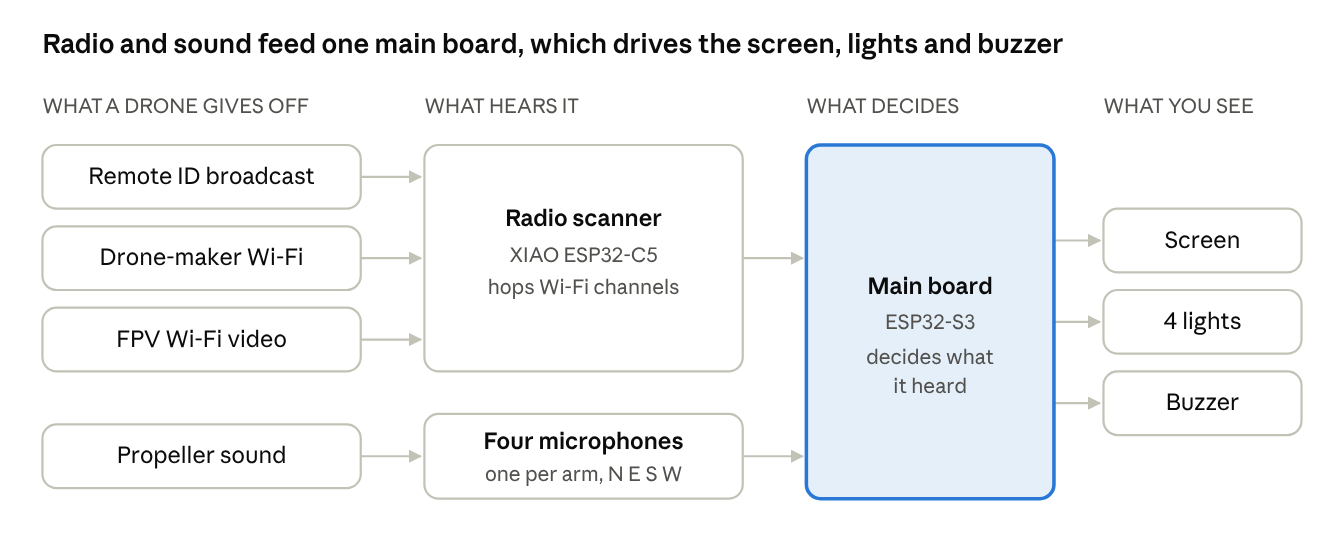
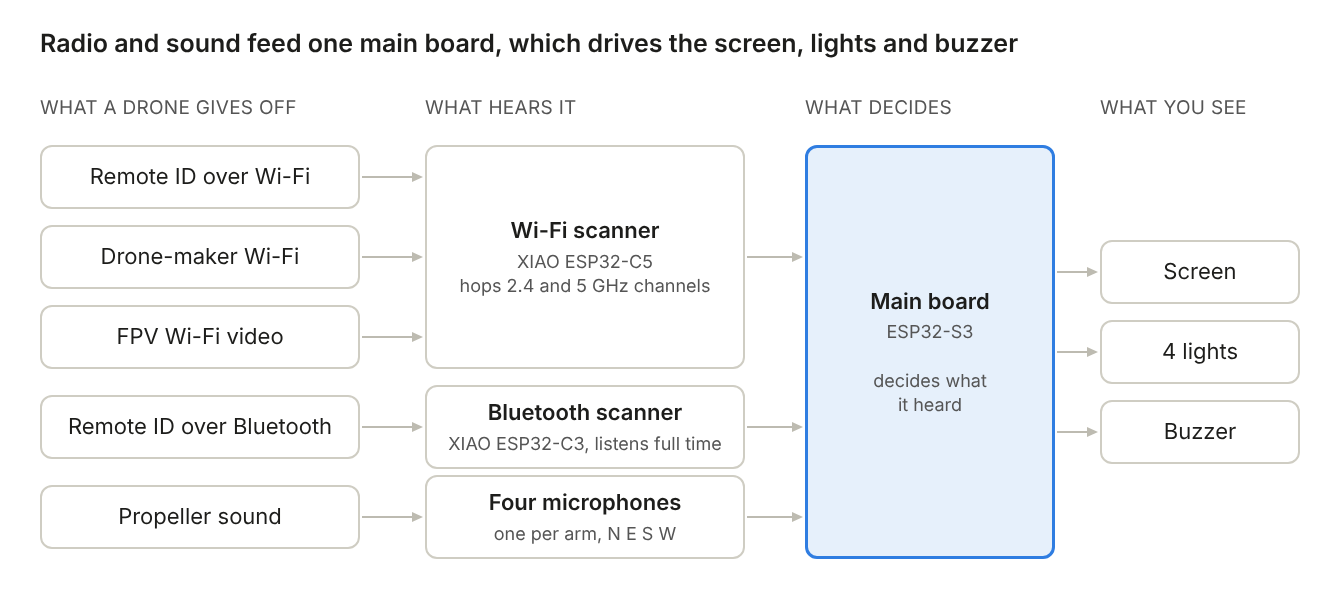
Update demo docs for S3 v28, C5 v4 and the Bluetooth board
- README: new "what it does today" graphic, a "where the project is now"
  section (working features, what the browser sim runs, what's next),
  and a short "help fund it" section.
- GUIDE: Bluetooth Remote ID via the XIAO ESP32-C3 board, drone Wi-Fi
  network-name hints, BT badge and SYS line, RF hint list, new
  troubleshooting row; redrawn how-it-works diagram with three boards.
- index.html: intro note that the sim runs the Nov 4 firmware and what
  the real unit has gained since.

Claude-Session: https://claude.ai/code/session_01J2jUx3sYurfb5398Jg7xUa

diff --git a/index.html b/index.html
@@ -140,6 +140,7 @@ input[type=range] { width: 100%; accent-color: var(--accent); }
       <li>Click a drone on the map to select it, then click anywhere to send it there, or use <b>fly at me</b> and <b>fly away</b>.</li>
       <li>Click the unit's screen, then use <kbd>Space</kbd> to change screens and the arrow keys to pick a contact. <kbd>Enter</kbd> opens its details.</li>
     </ol>
+    <p class="hint"><b>Where the real device is now (November 21, 2026):</b> this page runs the November 4 firmware. Since then the real unit gained a third board that listens for Bluetooth Remote ID full time (including Bluetooth 5 Long Range), and its drone hints now also match drone Wi-Fi network names. Those two features are not in this simulator yet. <a href="https://github.com/pkkshadow/drone-watch-demo#where-the-project-is-now" target="_blank" rel="noopener">What's new and what's next</a>.</p>
     <p class="hint">How the real device works, step by step: <a href="https://github.com/pkkshadow/drone-watch-demo/blob/main/GUIDE.md" target="_blank" rel="noopener">user guide</a>. The location shown is a field in central Kansas, chosen for the demo.</p>
   </section>
 

diff --git a/GUIDE.md b/GUIDE.md
@@ -1,6 +1,6 @@
 # DRONE WATCH User Guide
 
-Last updated November 4, 2026. Try the device in your browser: [DRONE WATCH field simulator](https://pkkshadow.github.io/drone-watch-demo/).
+Last updated November 21, 2026. Try the device in your browser: [DRONE WATCH field simulator](https://pkkshadow.github.io/drone-watch-demo/). The simulator runs the November 4 firmware, so it doesn't have the Bluetooth board or network-name hints described below yet.
 
 ## What DRONE WATCH is
 
@@ -8,7 +8,7 @@ DRONE WATCH is a small box that tells you when a drone is nearby, by listening. 
 
 It listens in two ways:
 
-- **Radio.** Most new drones must broadcast a digital "license plate" called Remote ID. DRONE WATCH picks that up and shows the drone's ID, its position and height, and where its pilot is standing. It also notices radio signals that only certain drone makers use, and the kind of Wi-Fi video link some FPV racing drones use.
+- **Radio.** Most new drones must broadcast a digital "license plate" called Remote ID, over Wi-Fi or Bluetooth. DRONE WATCH picks up both and shows the drone's ID, its position and height, and where its pilot is standing. It also notices radio signals and Wi-Fi network names that only drones use, and the kind of Wi-Fi video link some FPV racing drones use.
 - **Sound.** Four small microphones on a cross-shaped arm hear the buzz that propellers make. The device tells a drone's buzz apart from other noises and points to which direction it is coming from.
 
 You don't need to know anything about drones to use it. Set it up outside, switch it on, and watch the screen and the lights. A beep tells you when something new shows up.
@@ -19,8 +19,8 @@ A drone is a small flying machine, usually with four propellers, steered by a pi
 
 | Kind | What it looks and sounds like | How DRONE WATCH notices it |
 | --- | --- | --- |
-| Camera drone (DJI Mavic, Mini, Air; Autel) | Grey or white, 0.5 to 2 lb, hovers steadily for photos. A steady, mid-pitched hum. | Remote ID by radio, plus sound |
-| Older or budget camera drone | Often connects to a phone over Wi-Fi. | Its maker's Wi-Fi signal (a hint), plus sound |
+| Camera drone (DJI Mavic, Mini, Air; Autel) | Grey or white, 0.5 to 2 lb, hovers steadily for photos. A steady, mid-pitched hum. | Remote ID by radio (Wi-Fi or Bluetooth), plus sound |
+| Older or budget camera drone | Often connects to a phone over Wi-Fi. | Its maker's Wi-Fi signal or network name (a hint), plus sound |
 | FPV racing or freestyle drone | Small and very fast, flown through video goggles. A high-pitched whine that changes pitch quickly. | Sound; a Wi-Fi video link if it uses one |
 | Large drone (crop spraying, film, delivery) | Big, often six or eight propellers. A deep, low drone. | Remote ID by radio, plus sound |
 
@@ -34,24 +34,28 @@ A few facts make the screens easier to read:
 
 ## How it works
 
-Two small computers inside the box share the work. A radio scanner (the XIAO ESP32-C5) listens to Wi-Fi. The main board (the ESP32-S3) listens to the microphones and runs the screen, lights and buzzer.
+Three small computers inside the box share the work:
 
-![How DRONE WATCH hears a drone: four signals, two sensors, one main board](img/how-it-works.png)
+- a Wi-Fi scanner (the XIAO ESP32-C5);
+- a Bluetooth scanner (the XIAO ESP32-C3);
+- the main board (the ESP32-S3), which listens to the microphones and runs the screen, lights and buzzer.
 
-Three of the four signals are radio and go to the scanner; propeller sound goes to the microphones. The main board combines both and decides what to show.
+![How DRONE WATCH hears a drone: five signals, three sensors, one main board](img/how-it-works.png)
+
+The radio signals go to the two scanners; propeller sound goes to the microphones. The main board combines all three and decides what to show.
 
 ### The radio side
 
-The scanner hops between Wi-Fi channels every eighth of a second. Channel 6 gets every other turn, because Remote ID usually lives there, and a short visit to the 5 GHz band is part of each round. It reports four kinds of find to the main board:
+The Wi-Fi scanner hops between Wi-Fi channels every eighth of a second. Channel 6 gets every other turn, because Remote ID usually lives there, and a short visit to the 5 GHz band is part of each round. It reports four kinds of find to the main board:
 
 - **Remote ID in Wi-Fi beacons.** This is the most common kind on DJI drones.
 - **Remote ID over Wi-Fi "NAN".** A second Wi-Fi method some drones and add-on modules use. The device joins the pieces of each drone's messages into one contact.
-- **Drone-maker radios.** Every Wi-Fi device has a hardware address, and the first half of the address names the maker. A DJI or Autel address with no Remote ID becomes a hint, not a contact.
+- **Drone-maker radios.** Every Wi-Fi device has a hardware address, and the first half of the address names the maker. The list covers DJI, Autel, Yuneec, FIMI, Hubsan, Zero Zero and others, checked against the official IEEE registry. The scanner also reads the Wi-Fi network name, so a drone with a random or generic address still matches by its name. Either one, with no Remote ID, becomes a hint, not a contact.
 - **5.8 GHz video-style traffic.** A lot of Wi-Fi traffic that doesn't belong to any nearby router suggests an FPV video link. This is also a hint.
 
 Each drone's signal strength is shown in dBm. Numbers closer to zero are stronger: about −40 is very close, and −90 is barely heard. When the strength keeps rising over several seconds, the drone is marked CLOSING.
 
-The main board can also hear Remote ID over Bluetooth, but that is switched off in the current build until the replacement S3 board is in. For now, a drone that broadcasts Remote ID only over Bluetooth won't show up by radio.
+A second scanner, the XIAO ESP32-C3, listens for Remote ID over Bluetooth the whole time. It hears ordinary Bluetooth 4 broadcasts, and Bluetooth 5 Long Range ones when it is built with that option. It passes each drone to the main board the same way the Wi-Fi scanner does, so one drone heard both ways shows up as one contact marked W+B.
 
 ### The sound side
 
@@ -126,7 +130,7 @@ There are four screens, shown as tabs under the top bar: HOME, RF, AUDIO and SYS
 **The top bar** reads DRONE WATCH on the left. On the right are four status words:
 
 - **C5** is green while the radio scanner is talking to the main board, and red if it has gone silent.
-- **BT** is grey, because Bluetooth is off in this build.
+- **BT** is green while the Bluetooth scanner is talking to the main board, and red if it has gone silent.
 - **MIC** is green when the microphones are running.
 - **Battery percent** is shown on the far right, or USB when plugged in.
 
@@ -139,13 +143,13 @@ The whole bar flashes red while there is an alert. A small red square on a tab m
 - **The big card** says CLEAR (green), ACOUSTIC (amber, heard but no radio), RF HINT (purple, a drone-maker radio or FPV video, no Remote ID) or RF CONTACT (red, a drone broadcasting Remote ID). The line under it gives the newest contact's ID and signal strength, and CLOSING if it is getting nearer.
 - **The small compass** on the right, labelled AUDIO, shows the direction of a sound the microphones think is a drone.
 - **CONTACTS** lists up to four drones, newest first: ID, type, signal strength with a bar, ^ if closing, how long ago it was last heard, and WIFI or BLE.
-- **The bottom strip** shows hints: ! DJI followed by an address means a drone-maker radio, and \~5.8G FPV means video-like traffic.
+- **The bottom strip** shows hints: ! DJI followed by a network name (or a hardware address) means a drone-maker radio, and \~5.8G FPV means video-like traffic.
 
 ### RF list
 
 <img src="img/screen-rf-list.png" width="480" alt="RF list with two contacts">
 
-Every drone heard by radio in the last 15 minutes, up to seven on screen. OP in red means the drone is reporting where its pilot is. ^ means closing and v means moving away. A contact turns grey after 60 seconds without a signal, and drops off the list after 15 minutes. Turn the knob to pick one, then push to open it.
+Every drone heard by radio in the last 15 minutes, up to seven on screen. When there are no Remote ID contacts but there are hints, this screen lists the hints instead: maker, network name, address and signal strength, tagged MAC (matched by address), NAME (matched by network name) or BOTH. OP in red means the drone is reporting where its pilot is. ^ means closing and v means moving away. A contact turns grey after 60 seconds without a signal, and drops off the list after 15 minutes. Turn the knob to pick one, then push to open it.
 
 ### RF detail
 
@@ -185,7 +189,7 @@ Turn the knob to pick a row and push to change it. Every setting is saved.
 | Array check (cal) | push twice to start |
 | Clear contacts | push twice to wipe the contact list |
 
-Under the settings are system details: uptime, battery voltage, how many Remote ID messages and drone-maker radios have been heard, and memory and processing time.
+Under the settings are system details: uptime, battery voltage, how many Remote ID messages and drone-maker radios have been heard, how many Bluetooth packets per second the Bluetooth scanner hears (LR means it was built with Long Range), and memory and processing time.
 
 ## Lights and sounds
 
@@ -231,7 +235,7 @@ No single detector catches every drone. CLEAR means nothing was detected, not th
 
 **Missed by radio:**
 
-- Drones that broadcast Remote ID only over Bluetooth, while Bluetooth is switched off in this build.
+- Bluetooth 5 Long Range Remote ID, if the Bluetooth scanner was built without the Long Range option (SYS shows LR when it has it).
 - Drones without Remote ID that don't use Wi-Fi. Most modern DJI drones talk to their controller on DJI's own radio system, not Wi-Fi.
 - FPV drones with analog or DJI digital video. Neither is Wi-Fi, so only the microphones can hear them. A separate 5.8 GHz detector is planned for this.
 
@@ -253,7 +257,8 @@ No single detector catches every drone. CLEAR means nothing was detected, not th
 
 | You see | Likely cause | Try this |
 | --- | --- | --- |
-| C5 red in the top bar; SYS says C5 silent | the radio scanner stopped talking to the main board | switch off and on; check the two UART wires and ground between the boards |
+| C5 red in the top bar; SYS says C5 silent | the Wi-Fi scanner stopped talking to the main board | switch off and on; check the two UART wires and ground between the boards |
+| BT red in the top bar; SYS says BLE silent or BLE no link | the Bluetooth scanner stopped talking to the main board | switch off and on; check its TX wire to the main board's G39 and its ground; make sure its antenna is plugged in |
 | MIC red, or NO MICS on AUDIO | the microphones failed to start | switch off and on; check the mic cable at the board's mic header |
 | NO DATA ON SD0 or SD1 | one microphone data line is silent | check that line's wire and its 100k pull-down; reseat the mic cable |
 | DEAD next to one arm in MIC LEVEL | that microphone sends nothing | check its wires and its L/R jumper |

diff --git a/README.md b/README.md
@@ -2,16 +2,49 @@
 
 **[Open the live demo](https://pkkshadow.github.io/drone-watch-demo/)**
 
+![What DRONE WATCH does today: Remote ID over Wi-Fi and Bluetooth, hints for drones without Remote ID, and a 4-mic array that hears propellers](img/drone-watch-today.png)
+
 DRONE WATCH is a homemade, listen-only drone detector. It never transmits anything; it only picks up what drones already put in the air:
 
-- **Remote ID.** Most drones in the US must broadcast an ID, a position and the pilot's location. The detector reads it over Wi-Fi, from both beacon and NAN frames.
-- **Drone-maker Wi-Fi.** It flags radios whose hardware address belongs to a drone maker, even without Remote ID.
+- **Remote ID over Wi-Fi.** Most drones in the US must broadcast an ID, a position and the pilot's location. The detector reads it from Wi-Fi beacon and NAN frames, on 2.4 and 5 GHz.
+- **Remote ID over Bluetooth.** A separate small board listens for Bluetooth Remote ID full time, including Bluetooth 5 Long Range.
+- **Drones without Remote ID.** It flags radios whose hardware address belongs to a drone maker, and Wi-Fi networks with a drone's name. These show as hints, not contacts.
 - **FPV video hints.** It notices 5.8 GHz Wi-Fi-style video links that don't belong to a nearby router.
 - **Sound.** Four microphones on a cross-shaped arm hear propeller hum and give the direction it comes from.
 
-This demo runs the device's real firmware in your browser. Both boards are compiled to WebAssembly: the ESP32-S3 main board and the XIAO ESP32-C5 radio scanner. A simulated field of drones, Wi-Fi traffic, wind and noise surrounds them.
+This demo runs the device's real firmware in your browser. The ESP32-S3 main board and the XIAO ESP32-C5 radio scanner are compiled to WebAssembly. A simulated field of drones, Wi-Fi traffic, wind and noise surrounds them.
 
 <img src="img/screen-home.png" width="480" alt="The device's HOME screen with two Remote ID contacts">
+
+## Where the project is now
+
+*Updated November 21, 2026.*
+
+**Working on the real device:**
+
+- Three boards share the work:
+  - an ESP32-S3 main board runs the screen, lights, buzzer and microphones;
+  - a XIAO ESP32-C5 listens to Wi-Fi;
+  - a XIAO ESP32-C3 listens to Bluetooth.
+- Remote ID over Wi-Fi (beacon and NAN) and over Bluetooth (Bluetooth 4 and Bluetooth 5 Long Range), merged into one contact list.
+- A bigger list of drone-maker hardware addresses, checked against the official IEEE registry, plus matching on drone Wi-Fi network names.
+- The four-microphone array, with a compass bearing and a size guess.
+- A "closing" alert when a drone's signal keeps getting stronger.
+- A custom carrier circuit board, and a shielded enclosure so the electronics don't drown out the radios.
+
+**In this browser demo:** the November 4 firmware (S3 v26, C5 v3). It doesn't have the Bluetooth board or network-name matching yet, so the **BT** badge stays grey.
+
+**Next up:**
+
+1. **5.8 GHz FPV video detection.** Most FPV drones send analog or DJI digital video that a Wi-Fi radio can't see. A dedicated 5.8 GHz receiver and a custom band-pass filter board are planned for this.
+2. **Mesh warnings.** A version that sends its alerts over LoRa into a Meshtastic mesh, so remote solar-powered units can warn people further away.
+3. **Real-world range tests** against actual drones, with the results published here.
+
+**Goal:** a field unit that costs under $500 to build.
+
+## Help fund it
+
+This is built and paid for by one person. If you'd like to help with parts, boards or test equipment, any amount helps. Reach out on X: [@Cephalon_Shade](https://x.com/Cephalon_Shade).
 
 ## Using the demo
 
